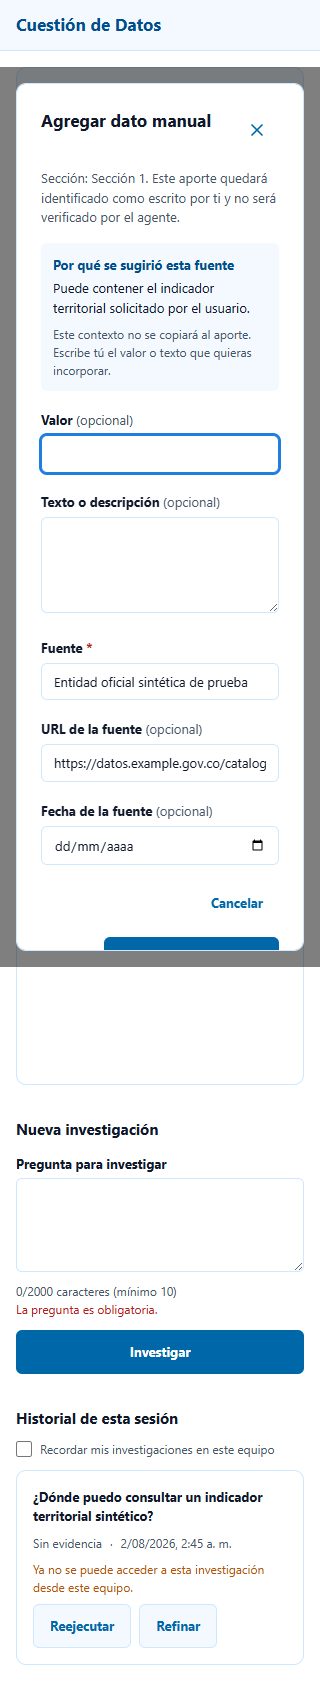
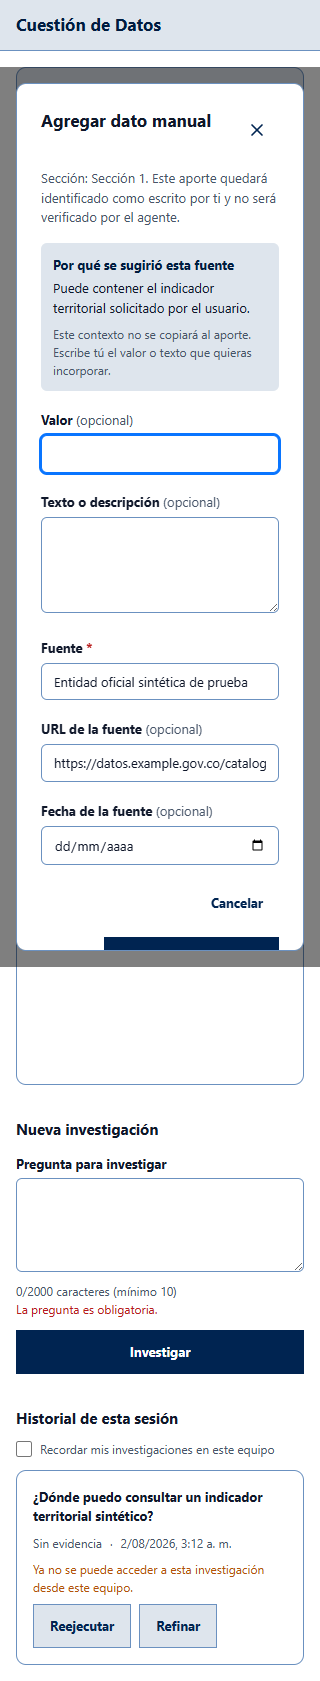
feat(frontend): PALETTE-02 - oscurecer la paleta azul y esquinas rectas en botones
Refinamiento del sistema visual existente (no un rediseno): la paleta
anterior quedaba demasiado clara sobre blanco, sin separacion visible entre
lienzo, paneles y divisores.

Paleta (tokens.css, fuente unica de verdad):
- blue-900 #001C40 y blue-700 #002451: anclas exactas fijadas por el
  usuario.
- blue-500 #0975FF, blue-100 #6B91C0, blue-50 #DEE5ED: derivados del mismo
  matiz (H=213.5 grados) mediante busqueda binaria de luminancia relativa
  WCAG, no a simple vista. Cambio estructural: blue-100 (=
  --cdt-border-color en toda la interfaz) ahora supera 3:1 de contraste
  contra blanco por si solo, para que bordes/divisores/borde del lienzo se
  distingan de verdad. blue-500 quedo acotado a una ventana estrecha a
  proposito (>=3:1 contra blanco y blue-50, pero por debajo de 4.5:1) para
  no romper en silencio "blue-500 nunca es color de texto".
- Toda combinacion real verificada por calculo antes de sustituir
  (tests/unit/ui/contrast.test.js); ningun color hexadecimal nuevo en
  componentes, todo pasa por tokens.css -> tailwind.config.js -> clases
  cdt-*. Unico color directo real encontrado y centralizado en un
  incremento anterior (EvidenceChart via lib/design/colorTokens.js), solo
  se actualizo su valor.

Botones rectangulares: nuevo --cdt-radius-none (0px) exclusivo para
Button, IconButton y los botones del menu Archivo/Editar/Formato
(Menu.jsx: disparador y MenuItem/MenuCheckboxItem/MenuRadioItem). Tarjetas,
[…]

diff --git a/frontend/tests/unit/ui/tokens.test.js b/frontend/tests/unit/ui/tokens.test.js
@@ -16,11 +16,11 @@ function readVar(name) {
 }
 
 const EXPECTED_TOKENS = {
-  "--cdt-blue-900": "#004e8c",
-  "--cdt-blue-700": "#0068a8",
-  "--cdt-blue-500": "#1f7ee0",
-  "--cdt-blue-100": "#cde8ff",
-  "--cdt-blue-50": "#f3f9ff",
+  "--cdt-blue-900": "#001c40",
+  "--cdt-blue-700": "#002451",
+  "--cdt-blue-500": "#0975ff",
+  "--cdt-blue-100": "#6b91c0",
+  "--cdt-blue-50": "#dee5ed",
   "--cdt-white": "#ffffff",
   "--cdt-slate-900": "#0f172a",
   "--cdt-slate-600": "#475569",
@@ -51,6 +51,10 @@ describe("tokens.css — fuente única de verdad", () => {
     expect(readVar("--cdt-tap-min")).toBe("44px");
   });
 
+  it("PALETTE-02: define un radio cero exclusivo para botones (rounded-cdt-none)", () => {
+    expect(readVar("--cdt-radius-none")).toBe("0px");
+  });
+
   it("define un anillo de foco visible que nunca depende solo del color (ancho + offset)", () => {
     expect(readVar("--cdt-focus-ring-width")).toBe("2px");
     expect(readVar("--cdt-focus-ring-offset")).toBe("2px");
@@ -75,5 +79,39 @@ describe("tailwind.config.js — utilidades cdt-* consumen las variables reales"
     expect(fontWeightBlockMatch).toBeTruthy();
     const entries = fontWeightBlockMatch[1].match(/"cdt-[a-z]+"/g) ?? [];
     expect(entries.sort()).toEqual(['"cdt-bold"', '"cdt-normal"']);
+  });
+
+  it("PALETTE-02: cdt-none mapea a var(--cdt-radius-none)", () => {
+    expect(tailwindConfig).toMatch(/"cdt-none":\s*"var\(--cdt-radius-none\)"/);
+  });
+});
+
+describe("PALETTE-02 — botones con esquinas rectas, otras primitivas conservan su radio", () => {
+  const componentsDir = path.resolve(process.cwd(), "components/ui");
+  const buttonJsx = readFileSync(path.join(componentsDir, "Button.jsx"), "utf-8");
+  const iconButtonJsx = readFileSync(path.join(componentsDir, "IconButton.jsx"), "utf-8");
+  const menuJsx = readFileSync(path.join(componentsDir, "Menu.jsx"), "utf-8");
+  const cardJsx = readFileSync(path.join(componentsDir, "Card.jsx"), "utf-8");
+  const modalJsx = readFileSync(path.join(componentsDir, "Modal.jsx"), "utf-8");
+  const badgeJsx = readFileSync(path.join(componentsDir, "Badge.jsx"), "utf-8");
+
+  it("Button e IconButton usan rounded-cdt-none", () => {
+    expect(buttonJsx).toMatch(/rounded-cdt-none/);
+    expect(iconButtonJsx).toMatch(/rounded-cdt-none/);
+  });
+
+  it("los botones del menú (disparador y opciones) usan rounded-cdt-none", () => {
+    // El panel desplegable (contenedor, no botón) debe CONSERVAR su radio.
+    expect(menuJsx).toMatch(/rounded-cdt-none/);
+    expect(menuJsx).toMatch(/rounded-cdt-lg border border-cdt-blue-100 bg-cdt-white/);
+  });
+
+  it("Card, Modal y Badge conservan su radio (no son botones)", () => {
+    expect(cardJsx).toMatch(/rounded-cdt-lg/);
+    expect(cardJsx).not.toMatch(/rounded-cdt-none/);
+    expect(modalJsx).toMatch(/rounded-cdt-lg/);
+    expect(modalJsx).not.toMatch(/rounded-cdt-none/);
+    expect(badgeJsx).toMatch(/rounded-cdt-full/);
+    expect(badgeJsx).not.toMatch(/rounded-cdt-none/);
   });
 });

diff --git a/frontend/styles/tokens.css b/frontend/styles/tokens.css
@@ -12,19 +12,31 @@
  * inventan aquí, se transcriben.
  */
 :root {
-  /* Color — paleta azul monocromática + neutros + semánticos. Matices
-   * inspirados en el azul característico de VS Code (revisión de
-   * dirección posterior a DESIGN-01, sobre la misma estructura
-   * monocromática ya aprobada). blue-700 y blue-500 se oscurecieron un
-   * paso respecto al valor VS Code literal (#007acc/#3794ff) tras
-   * comprobación WCAG: ambos fallaban contraste como texto/foco sobre
-   * blue-50/blue-100 (ver tests/unit/ui/contrast.test.js). blue-900,
-   * blue-100 y blue-50 son el valor VS Code sin ajustar. */
-  --cdt-blue-900: #004e8c;
-  --cdt-blue-700: #0068a8;
-  --cdt-blue-500: #1f7ee0;
-  --cdt-blue-100: #cde8ff;
-  --cdt-blue-50: #f3f9ff;
+  /* Color — paleta azul monocromática + neutros + semánticos.
+   * PALETTE-02: paleta oscurecida sobre la misma estructura monocromática
+   * de 5 pasos (reemplaza la revisión "VS Code" anterior, que quedó
+   * demasiado clara sobre blanco). blue-900 (#001C40) y blue-700 (#002451)
+   * son anclas exactas fijadas por el usuario. blue-500/blue-100/blue-50
+   * se derivaron del mismo matiz (H≈213.5°) mediante búsqueda binaria de
+   * luminancia relativa WCAG, no a simple vista — ver
+   * tests/unit/ui/contrast.test.js para cada pareja verificada:
+   * - blue-100 ahora cumple ≥3:1 contra blanco por sí solo: es el color
+   *   de `--cdt-border-color` (bordes/divisores/borde del lienzo en TODA
+   *   la interfaz), que antes (incluida la revisión VS Code) nunca pasaba
+   *   ese umbral por ser solo un tinte suave de fondo.
+   * - blue-500 se acotó a una ventana estrecha a propósito: debe superar
+   *   3:1 contra blanco Y contra blue-50 (visibilidad real del anillo de
+   *   foco/icono activo sobre cualquier fondo real), pero SIN alcanzar
+   *   4.5:1 contra blanco — cruzar ese umbral rompería en silencio "La
+   *   Regla del Acento Escaso" (blue-500 nunca es color de texto).
+   * - blue-50 se mantuvo más pálido de lo que un oscurecimiento ingenuo
+   *   sugeriría: es la única forma de dejarle a blue-500 margen real
+   *   frente a blue-50 sin romper la regla anterior. */
+  --cdt-blue-900: #001c40;
+  --cdt-blue-700: #002451;
+  --cdt-blue-500: #0975ff;
+  --cdt-blue-100: #6b91c0;
+  --cdt-blue-50: #dee5ed;
   --cdt-white: #ffffff;
   --cdt-slate-900: #0f172a;
   --cdt-slate-600: #475569;
@@ -60,7 +72,11 @@
   --cdt-space-12: 48px;
   --cdt-space-16: 64px;
 
-  /* Radios — pequeños y coherentes (constitución: "sin sombras duras") */
+  /* Radios — pequeños y coherentes (constitución: "sin sombras duras").
+   * PALETTE-02: `--cdt-radius-none` es exclusivamente para botones y
+   * controles con apariencia de botón (Button, IconButton, MenuItem*) —
+   * tarjetas, modales, campos de texto y citas conservan `sm/md/lg/full`. */
+  --cdt-radius-none: 0px;
   --cdt-radius-sm: 4px;
   --cdt-radius-md: 6px;
   --cdt-radius-lg: 10px;

diff --git a/frontend/tests/unit/ui/contrast.test.js b/frontend/tests/unit/ui/contrast.test.js
@@ -7,11 +7,11 @@ import { describe, expect, it } from "vitest";
  * parejas que el código de `frontend/components/ui/` produce.
  */
 const TOKENS = {
-  "blue-900": "#004e8c",
-  "blue-700": "#0068a8",
-  "blue-500": "#1f7ee0",
-  "blue-100": "#cde8ff",
-  "blue-50": "#f3f9ff",
+  "blue-900": "#001c40",
+  "blue-700": "#002451",
+  "blue-500": "#0975ff",
+  "blue-100": "#6b91c0",
+  "blue-50": "#dee5ed",
   white: "#ffffff",
   "slate-900": "#0f172a",
   "slate-600": "#475569",
@@ -84,13 +84,30 @@ const AA_NON_TEXT = 3;
 // blue-500 nunca es texto (ver arriba), pero SÍ es el color del anillo de
 // foco (`--cdt-focus-ring-color`) y del icono de paso activo — ambos son
 // componentes de interfaz, no texto: el umbral WCAG 1.4.11 aplicable es
-// 3:1, contra CUALQUIER fondo real donde un elemento enfocable pueda vivir
-// (lienzo blanco, cabeceras/zonas blue-50, tarjetas/chips blue-100).
-const FOCUS_RING_BACKGROUNDS = ["white", "blue-50", "blue-100"];
+// 3:1. Solo contra white/blue-50 — NUNCA contra blue-100 — porque
+// `outline-offset` deja ver lo que hay DETRÁS del elemento enfocado (la
+// página/zona: blanco o un contenedor blue-50), no el propio relleno del
+// elemento; blue-100 en este código solo aparece como borde de 1px o como
+// relleno de un chip/badge, jamás como el fondo que rodea a un control
+// enfocable (PALETTE-02, confirmado por inspección de
+// `components/agent/CopilotPanel.jsx`, `components/ui/Menu.jsx`).
+const FOCUS_RING_BACKGROUNDS = ["white", "blue-50"];
 
 describe("contraste WCAG 1.4.11 (no textual) — anillo de foco / icono activo sobre cualquier fondo real", () => {
   it.each(FOCUS_RING_BACKGROUNDS)("blue-500 sobre %s cumple ≥3:1", (bgName) => {
     const ratio = contrastRatio(TOKENS["blue-500"], TOKENS[bgName]);
+    expect(ratio).toBeGreaterThanOrEqual(AA_NON_TEXT);
+  });
+});
+
+// PALETTE-02: blue-100 es ahora también `--cdt-border-color` (bordes
+// estructurales, divisores, borde del lienzo) en TODA la interfaz — a
+// diferencia de la revisión anterior, debe ser visible por sí solo sobre
+// blanco como elemento de interfaz (WCAG 1.4.11, ≥3:1), no solo servir de
+// tinte de fondo.
+describe("contraste WCAG 1.4.11 (no textual) — blue-100 como borde estructural sobre blanco", () => {
+  it("blue-100 sobre white cumple ≥3:1 (borde/divisor/borde del lienzo visibles)", () => {
+    const ratio = contrastRatio(TOKENS["blue-100"], TOKENS.white);
     expect(ratio).toBeGreaterThanOrEqual(AA_NON_TEXT);
   });
 });

diff --git a/frontend/components/ui/Button.jsx b/frontend/components/ui/Button.jsx
@@ -8,6 +8,9 @@ import { cx } from "./cx";
  * adicionales (DESIGN.md: jerarquía de acciones por color/peso, no por
  * cantidad de estilos). El consumidor debe renderizar este componente
  * dentro de un contenedor `.cdt-v2` para heredar tipografía y foco.
+ * PALETTE-02: esquinas rectas (`rounded-cdt-none`) a propósito — es la
+ * única primitiva de "control con apariencia de botón"; tarjetas, modales
+ * y campos de texto conservan su radio.
  */
 const VARIANT_CLASSES = {
   primary: "bg-cdt-blue-700 text-cdt-white hover:bg-cdt-blue-900 active:bg-cdt-blue-900",
@@ -40,7 +43,7 @@ export const Button = forwardRef(function Button(
       aria-disabled={!isButtonElement && isDisabled ? true : undefined}
       aria-busy={loading || undefined}
       className={cx(
-        "inline-flex items-center justify-center gap-cdt-2 rounded-cdt-md px-cdt-4",
+        "inline-flex items-center justify-center gap-cdt-2 rounded-cdt-none px-cdt-4",
         "min-h-cdt-tap font-cdt-sans text-cdt-sm font-cdt-bold",
         "transition-colors duration-cdt-base ease-cdt-standard",
         "disabled:opacity-50 disabled:cursor-not-allowed disabled:pointer-events-none",

diff --git a/frontend/components/ui/Menu.jsx b/frontend/components/ui/Menu.jsx
@@ -152,7 +152,7 @@ export function Menu({ label, children, triggerRef: externalTriggerRef }) {
         onClick={() => bar.setOpenId(isOpen ? null : id)}
         onKeyDown={handleTriggerKeyDown}
         className={cx(
-          "min-h-cdt-tap rounded-cdt-md px-cdt-3 font-cdt-sans text-cdt-sm font-cdt-bold text-cdt-blue-900",
+          "min-h-cdt-tap rounded-cdt-none px-cdt-3 font-cdt-sans text-cdt-sm font-cdt-bold text-cdt-blue-900",
           "transition-colors duration-cdt-base ease-cdt-standard hover:bg-cdt-blue-100",
           isOpen && "bg-cdt-blue-100"
         )}
@@ -178,7 +178,7 @@ export function Menu({ label, children, triggerRef: externalTriggerRef }) {
 
 function baseItemClasses(disabled) {
   return cx(
-    "flex w-full min-h-cdt-tap items-center gap-cdt-2 rounded-cdt-md px-cdt-3 text-left font-cdt-sans text-cdt-sm text-cdt-slate-900",
+    "flex w-full min-h-cdt-tap items-center gap-cdt-2 rounded-cdt-none px-cdt-3 text-left font-cdt-sans text-cdt-sm text-cdt-slate-900",
     "transition-colors duration-cdt-base ease-cdt-standard",
     disabled ? "cursor-not-allowed opacity-50" : "hover:bg-cdt-blue-50"
   );

diff --git a/frontend/lib/design/colorTokens.js b/frontend/lib/design/colorTokens.js
@@ -1,11 +1,10 @@
 /**
- * Espejo JS de un solo valor de `styles/tokens.css` (paleta inspirada en
- * VS Code, revisión de dirección posterior a DESIGN-01). Existe porque
- * Chart.js recibe colores como strings en tiempo de configuración de
- * JavaScript — no puede leer una variable CSS. Esta es la ÚNICA copia de
- * `--cdt-blue-700` permitida fuera de `tokens.css`; ningún componente debe
- * escribir un hexadecimal propio. `tests/unit/ui/tokens.test.js` compara
- * este valor contra `tokens.css` para que no puedan desincronizarse en
- * silencio.
+ * Espejo JS de un solo valor de `styles/tokens.css` (PALETTE-02). Existe
+ * porque Chart.js recibe colores como strings en tiempo de configuración
+ * de JavaScript — no puede leer una variable CSS. Esta es la ÚNICA copia
+ * de `--cdt-blue-700` permitida fuera de `tokens.css`; ningún componente
+ * debe escribir un hexadecimal propio. `tests/unit/ui/tokens.test.js`
+ * compara este valor contra `tokens.css` para que no puedan
+ * desincronizarse en silencio.
  */
-export const CDT_BLUE_700 = "#0068a8";
+export const CDT_BLUE_700 = "#002451";

diff --git a/frontend/pages/_dev/ui.js b/frontend/pages/_dev/ui.js
@@ -47,11 +47,11 @@ import { DEMO_SCENARIOS, makeDemoAgentClient } from "../../lib/gallery/agentDemo
  */
 
 const TOKENS = [
-  { name: "blue-900", hex: "#004E8C", className: "bg-cdt-blue-900" },
-  { name: "blue-700", hex: "#0068A8", className: "bg-cdt-blue-700" },
-  { name: "blue-500", hex: "#1F7EE0", className: "bg-cdt-blue-500" },
-  { name: "blue-100", hex: "#CDE8FF", className: "bg-cdt-blue-100" },
-  { name: "blue-50", hex: "#F3F9FF", className: "bg-cdt-blue-50" },
+  { name: "blue-900", hex: "#001C40", className: "bg-cdt-blue-900" },
+  { name: "blue-700", hex: "#002451", className: "bg-cdt-blue-700" },
+  { name: "blue-500", hex: "#0975FF", className: "bg-cdt-blue-500" },
+  { name: "blue-100", hex: "#6B91C0", className: "bg-cdt-blue-100" },
+  { name: "blue-50", hex: "#DEE5ED", className: "bg-cdt-blue-50" },
   { name: "white", hex: "#FFFFFF", className: "bg-cdt-white border border-cdt-blue-100" },
   { name: "slate-900", hex: "#0F172A", className: "bg-cdt-slate-900" },
   { name: "slate-600", hex: "#475569", className: "bg-cdt-slate-600" },

diff --git a/frontend/tests/unit/evidence/components.test.jsx b/frontend/tests/unit/evidence/components.test.jsx
@@ -243,9 +243,9 @@ describe("QualityBadge — contraste WCAG 2.2 AA real de las cinco combinaciones
   // fondo `blue-100`/texto `blue-900` para "media" no es una pareja ya
   // cubierta por esa suite genérica de F1-01.
   const TOKENS = {
-    "blue-900": "#004e8c",
-    "blue-700": "#0068a8",
-    "blue-100": "#cde8ff",
+    "blue-900": "#001c40",
+    "blue-700": "#002451",
+    "blue-100": "#6b91c0",
     white: "#ffffff",
     "slate-600": "#475569",
     warning: "#b45309",

diff --git a/frontend/components/ui/IconButton.jsx b/frontend/components/ui/IconButton.jsx
@@ -32,7 +32,7 @@ export const IconButton = forwardRef(function IconButton(
       aria-label={label}
       aria-busy={loading || undefined}
       className={cx(
-        "inline-flex items-center justify-center rounded-cdt-md",
+        "inline-flex items-center justify-center rounded-cdt-none",
         "h-cdt-tap w-cdt-tap",
         "transition-colors duration-cdt-base ease-cdt-standard",
         "disabled:opacity-50 disabled:cursor-not-allowed disabled:pointer-events-none",

diff --git a/frontend/tailwind.config.js b/frontend/tailwind.config.js
@@ -56,6 +56,7 @@ module.exports = {
         "cdt-tap": "var(--cdt-tap-min)",
       },
       borderRadius: {
+        "cdt-none": "var(--cdt-radius-none)",
         "cdt-sm": "var(--cdt-radius-sm)",
         "cdt-md": "var(--cdt-radius-md)",
         "cdt-lg": "var(--cdt-radius-lg)",

diff --git a/DESIGN.md b/DESIGN.md
@@ -2,11 +2,11 @@
 name: Cuestión de Datos — Pulso por lo Público
 description: Sala de seguimiento de políticas públicas y sistema de orientación cívica; la investigación de datos abiertos se recorre como una ruta verificable, no se conversa con ella.
 colors:
-  blue-900: "#004E8C"
-  blue-700: "#0068A8"
-  blue-500: "#1F7EE0"
-  blue-100: "#CDE8FF"
-  blue-50: "#F3F9FF"
+  blue-900: "#001C40"
+  blue-700: "#002451"
+  blue-500: "#0975FF"
+  blue-100: "#6B91C0"
+  blue-50: "#DEE5ED"
   white: "#FFFFFF"
   slate-900: "#0F172A"
   slate-600: "#475569"
@@ -128,24 +128,26 @@ decisión de marca abierta. Fuente de verdad única en
 prefijo `cdt-` (`bg-cdt-blue-700`, etc.) para no chocar con la paleta por
 defecto de Tailwind que el frontend legacy sigue usando con otros valores.
 
-**Revisión de matices (posterior a DESIGN-01, aprobada explícitamente por
-el usuario):** los cinco tonos de azul se recalibraron con una paleta
-inspirada en el azul característico de VS Code, conservando exactamente la
-misma estructura monocromática (5 pasos, mismo rol de cada uno).
-`blue-900`, `blue-100` y `blue-50` son el valor VS Code sin ajustar;
-`blue-700` y `blue-500` se oscurecieron un paso frente al valor VS Code
-literal (`#007ACC`/`#3794FF`) porque fallaban contraste WCAG como
-texto/anillo de foco sobre `blue-50`/`blue-100` — ver
-`frontend/tests/unit/ui/contrast.test.js`, que hace cumplir esto en CI.
+**PALETTE-02 (revisión vigente, reemplaza la revisión "VS Code" anterior):**
+la paleta anterior quedó demasiado clara sobre fondo blanco — bordes,
+divisores y el borde del lienzo perdían separación visual. `blue-900`
+(`#001C40`) y `blue-700` (`#002451`) son anclas exactas fijadas por el
+usuario; `blue-500`/`blue-100`/`blue-50` se derivaron del mismo matiz
+(H≈213.5°) mediante búsqueda binaria de luminancia relativa WCAG, no a
+simple vista. Cambio estructural notable: `blue-100` (= `--cdt-border-color`
+en todo el sistema) ahora supera 3:1 de contraste contra blanco por sí
+solo — antes era solo un tinte de fondo, nunca pensado para leerse como
+línea/borde independiente. Cada pareja real queda verificada en
+`frontend/tests/unit/ui/contrast.test.js`, que la hace cumplir en CI.
 
 ### Primary
-- **Azul profundo** (`#004E8C`, `blue-900`): titulares, navegación, hover del botón primario. Es el ancla de autoridad — donde el ojo debe leer "esto es serio y verificado".
-- **Azul medio** (`#0068A8`, `blue-700`): botones primarios, enlaces. El color de la acción disponible.
-- **Azul acento** (`#1F7EE0`, `blue-500`): foco, elementos activos del agente mientras investiga — el color del "esto está pasando ahora".
+- **Azul profundo** (`#001C40`, `blue-900`): titulares, navegación, hover del botón primario. Es el ancla de autoridad — donde el ojo debe leer "esto es serio y verificado".
+- **Azul medio** (`#002451`, `blue-700`): botones primarios, enlaces. El color de la acción disponible.
+- **Azul acento** (`#0975FF`, `blue-500`): foco, elementos activos del agente mientras investiga — el color del "esto está pasando ahora".
 
 ### Neutral
-- **Fondo tarjeta de evidencia** (`#CDE8FF`, `blue-100`): fondos de tarjetas de evidencia y chips — nunca para texto.
-- **Fondo de sección** (`#F3F9FF`, `blue-50`): separación de zonas sin bordes duros.
+- **Borde estructural / fondo de tarjeta de evidencia** (`#6B91C0`, `blue-100`): `--cdt-border-color` — bordes de tarjetas, tabla, borde del lienzo, divisores del menú y de la barra de formato; también fondos de chips/badges. Nunca para texto de cuerpo.
+- **Fondo de sección** (`#DEE5ED`, `blue-50`): separación de zonas sin bordes duros.
 - **Blanco** (`#FFFFFF`): fondo base, el lienzo en reposo.
 - **Slate 900/600/400**: texto principal / secundario / deshabilitado.
 
@@ -263,7 +265,11 @@ tipografía, foco visible y `prefers-reduced-motion` sin afectar al frontend
 legacy).
 
 ### Buttons (`Button.jsx`, `IconButton.jsx`)
-- **Shape:** radio `md` (6px), alto mínimo 44px.
+- **Shape:** esquinas rectas (`rounded-cdt-none`, PALETTE-02 — antes radio
+  `md`/6px), alto mínimo 44px. Exclusivo de botones y controles con
+  apariencia de botón (incluye los del menú Archivo/Editar/Formato,
+  `Menu.jsx`); tarjetas, modales, campos de texto, citas y badges
+  conservan su radio original — no es una regla general de "sin radios".
 - **Variantes (exactas, sin ampliar):** primaria (`blue-700`/blanco),
   secundaria (`blue-50`/`blue-700` con borde `blue-100` — fondo propio a
   propósito: sobre el lienzo blanco en reposo, un botón sin relleno era
